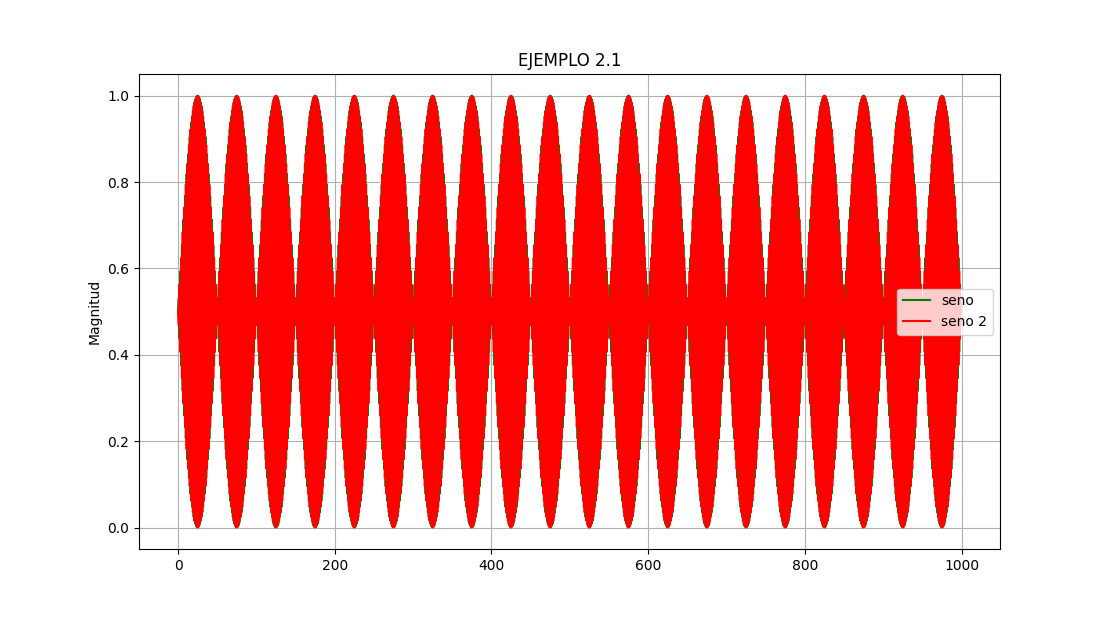
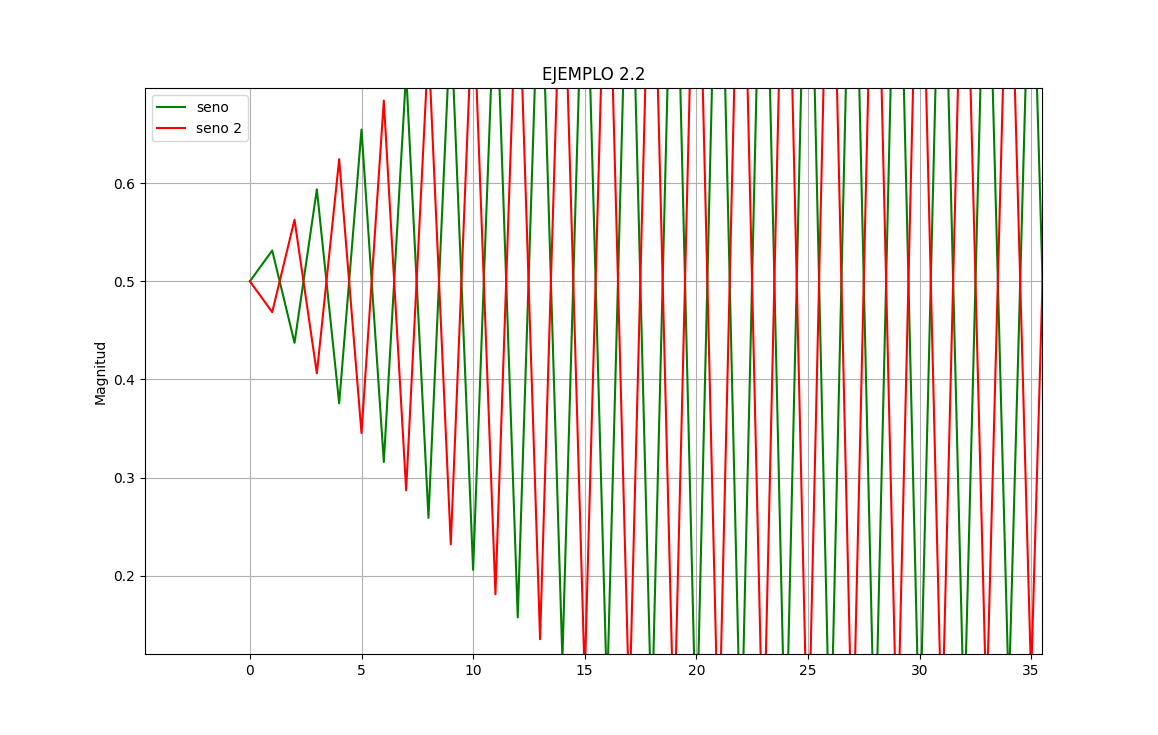
FIX

diff --git a/1_test_wave.py b/1_test_wave.py
@@ -57,7 +57,7 @@ seno = grafica_seno(frecuencia, frecuencia_sample, 0, 1000, 1)
 frecuencia = 0.51 * frecuencia_sample
 seno_2 = grafica_seno(frecuencia, frecuencia_sample, 0, 1000, 1)
 
-plt.title('EJEMPLO 2.1')
+plt.title('EJEMPLO 2.2')
 plt.plot(seno,color='green', label='seno')
 plt.plot(seno_2,color='red', label='seno 2')
 plt.grid()

diff --git a/README.md b/README.md
@@ -1,2 +1,7 @@
-# PDS
-Procesamiento Digital de Señales
+# 3 Simulaciones
+
+# ejemplo 2.1 comentarios:
+no se puede diferenciar.
+
+# ejemplo 2.2
+un desfase de 180
